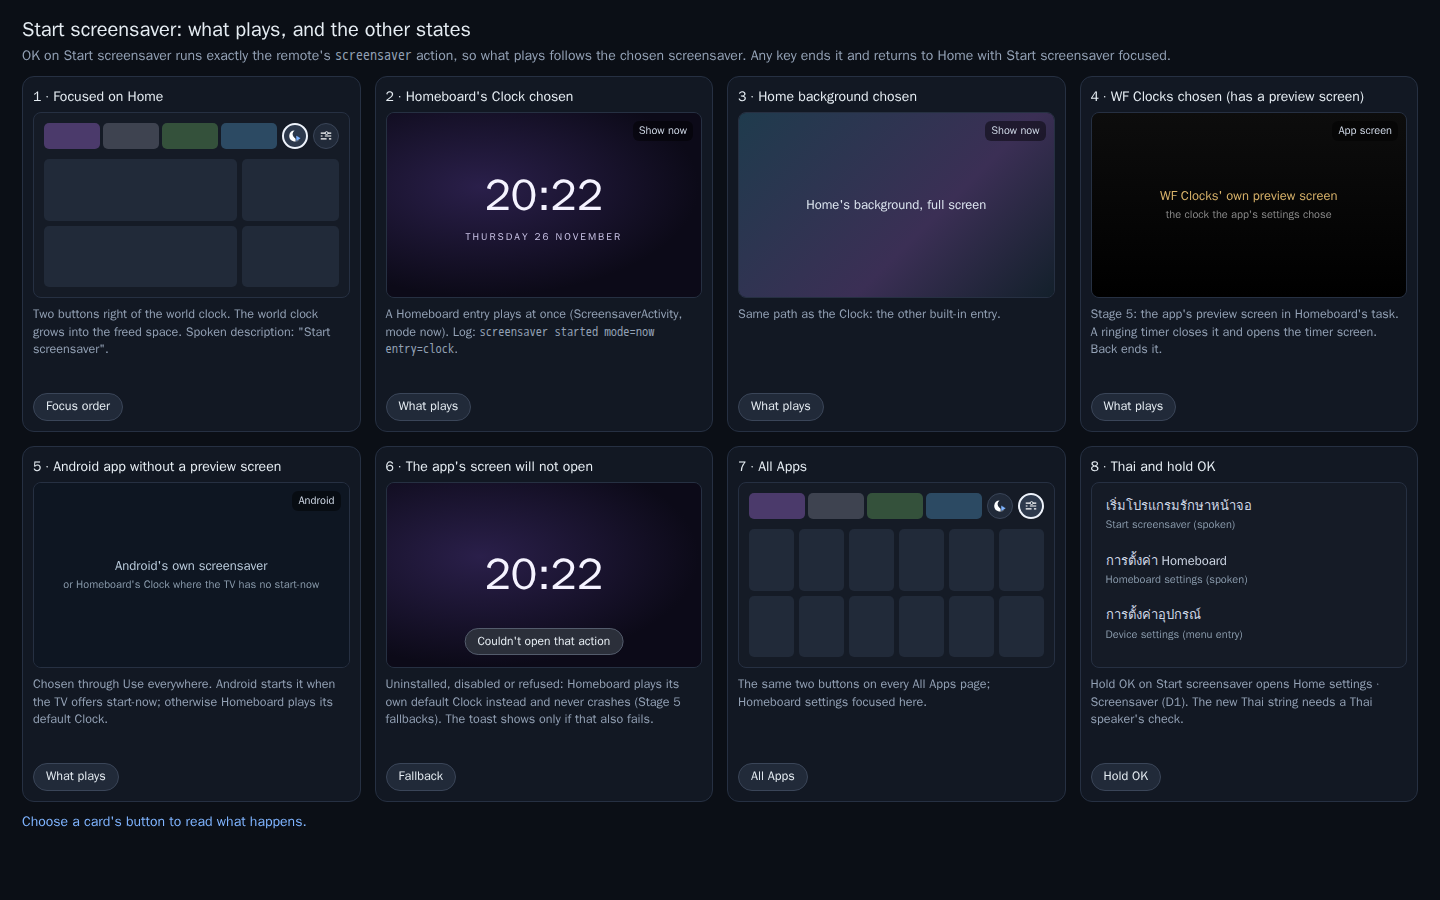
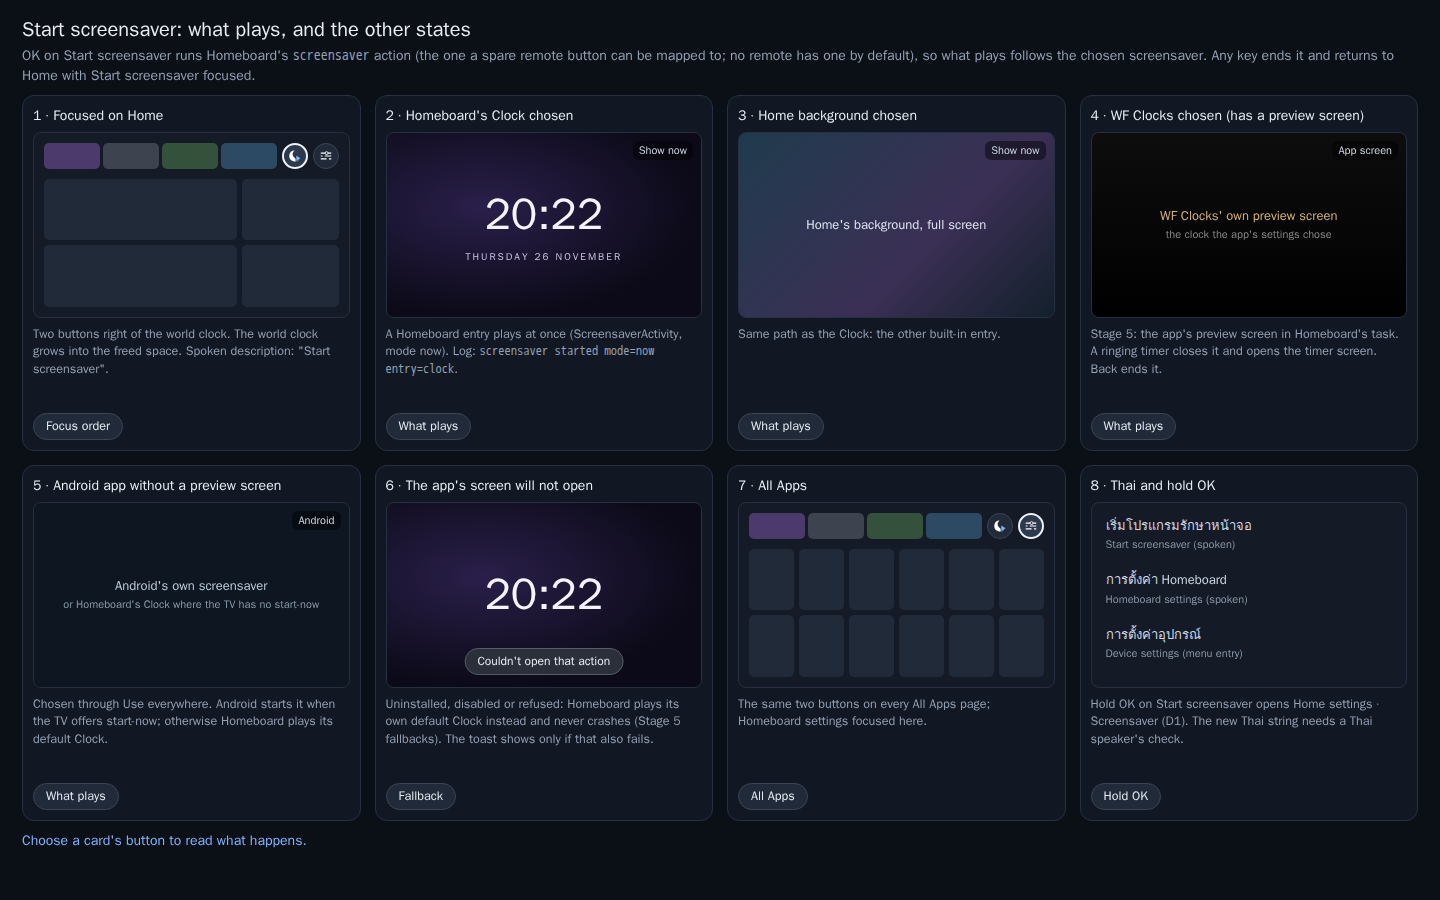
docs: no remote has a screensaver button
The screensaver action word only runs from a spare remote button that a build
or theme maps through app_keys, which ships empty. The top-row plan, its
mockup, the user guide, the contract, the investigation and the Stage 5 TODO
said "the remote" as if a button existed.

Claude-Session: https://claude.ai/code/session_01YEenqQzN1oGqYJXjCkzVJ1

diff --git a/docs/plans/2026-11-26-top-row-start-screensaver/start-states.html b/docs/plans/2026-11-26-top-row-start-screensaver/start-states.html
@@ -34,7 +34,7 @@
 <body>
 <main>
   <h1>Start screensaver: what plays, and the other states</h1>
-  <p class="sub">OK on Start screensaver runs exactly the remote's <code>screensaver</code> action, so what plays follows the chosen screensaver. Any key ends it and returns to Home with Start screensaver focused.</p>
+  <p class="sub">OK on Start screensaver runs Homeboard's <code>screensaver</code> action (the one a spare remote button can be mapped to; no remote has one by default), so what plays follows the chosen screensaver. Any key ends it and returns to Home with Start screensaver focused.</p>
   <div class="grid">
     <div class="card"><h2>1 · Focused on Home</h2>
       <div class="scr"><div class="top"><div class="chips"><span style="background:#4b3a6b"></span><span style="background:#3e4350"></span><span style="background:#34513b"></span><span style="background:#2c4a63"></span></div><div class="b f" id="i1"></div><div class="b" id="i2"></div></div><div class="blocks"><span></span><span></span><span></span><span></span></div></div>

diff --git a/TODO.md b/TODO.md
@@ -31,7 +31,7 @@ Repository consolidation is complete. Archived worktree drafts are described in 
 
 - [T4] **Native 4K dashboard**: actual 3840 × 2160 dashboard proof and native overlays implemented; Cast2 Rain/Back/Restore/All Apps/Clock and Cast1 1080p control passed. Dashboard scale with 100%/75%/50%, live Home preview, Save/Cancel and layout Undo is implemented for roughly four times the widget workspace at 50%; 0.1.162 is installed on Cast1, Cast2 and Pixel, with tablet jobs queued; 26 November native preview/Cancel/Save/Undo and Rain/Calendar/Air/Favorites Back/Restore passed at 50%. Phone browser UI, Android editor protocol and an ordinary-app provider control passed at 16×8; native provider fixture hosting also passed that evening, including move/resize, Back/Restore and same-binding Remove/Undo. External phone transport and broader provider/readability/accessibility checks remain open. [Scale follow-up](docs/testing/2026-11-26-dashboard-scale-acceptance.md). Finish performance attribution, pixel delivery, remaining widget/provider/editor/accessibility checks, then automatic selection, recovery and bounded asset-resolution changes before enabling native rendering in the normal launcher. [Plan](docs/plans/2026-11-23-native-4k-dashboard.md) · [verification](docs/testing/2026-11-25-native-4k-dashboard.md).
 
-- [verify T3] **Screensavers Stage 5: play World Foundry screensavers on Home and in Preview.** Built 2026‑11‑26 (`2395376`, `task check` passes): Homeboard reads `PREVIEW_ACTIVITY` (and the optional extra) from each Dream service, offers Preview and **Use this screensaver** on Home for such an app, and Home idle and the remote play the app's own preview screen in Homeboard's task; a ringing timer closes it with `finishActivity` and opens the timer screen. Left: contract Verification 3 on Cast1, which needs the WF Clocks APK with `5a117e85d` installed (the WorldFoundry session is building it) and a Homeboard deploy. Thai strings need a Thai speaker's read. See [contract](docs/plans/2026-11-26-screensaver-companion-contract.md) and [investigation](docs/investigations/2026-11-26-screensaver-integration.md).
+- [verify T3] **Screensavers Stage 5: play World Foundry screensavers on Home and in Preview.** Built 2026‑11‑26 (`2395376`, `task check` passes): Homeboard reads `PREVIEW_ACTIVITY` (and the optional extra) from each Dream service, offers Preview and **Use this screensaver** on Home for such an app, and Home idle and the `screensaver` action (a remote button mapped through `app_keys`; none by default) play the app's own preview screen in Homeboard's task; a ringing timer closes it with `finishActivity` and opens the timer screen. Left: contract Verification 3 on Cast1, which needs the WF Clocks APK with `5a117e85d` installed (the WorldFoundry session is building it) and a Homeboard deploy. Thai strings need a Thai speaker's read. See [contract](docs/plans/2026-11-26-screensaver-companion-contract.md) and [investigation](docs/investigations/2026-11-26-screensaver-integration.md).
 - [T3] **Home's top row: Start screensaver and Homeboard settings only.** Will, 2026‑11‑26: a button to start the screensaver "(something present in the original google launcher)", with Device settings and Screensaver settings moved inside Homeboard settings. The plan, with mockups, reuses the remote's `screensaver` action for the button, puts Device settings on page 1 of Home settings and keeps it reachable when the layout is read-only. Waiting on Will's decisions D1–D3 (hold OK on Start opens Screensaver settings; Device settings on page 1; a moon-with-play icon). Tier T3: settled multi-file change in MainActivity, RemoteKeys and strings once decided. See [plan](docs/plans/2026-11-26-top-row-start-screensaver.md).
 - [T4] **Android app widget hosting**: implement normal consent, saved instances, full-screen interaction, sizing and Undo; test the dedicated fixture, Fossify Calendar and Breezy Weather on Cast1/Cast2, Pixel and tablet. Stage-0 probe implemented and installed on both TVs; Both TVs lack normal binding consent, but the authorized developer-grant experiment proved separate-app binding/rendering on Cast1 and Cast2 with restored permissions and zero test IDs. Pixel census passed; tablet remains unverified. Product host and explicit one-time setup implemented; 0.1.95 also keeps setup/review explanations visible. Cast2 native fixture acceptance passes, including expansion/Restore/Back and phone Remove/Undo with the same binding. Both TVs have the identical 0.1.95 APK installed; Cast1 Add/expansion and Cast2 fixture/real-provider placeholder checks passed. Broader provider/mobile configuration and resource/24-hour checks remain open. [Plan](docs/plans/2026-11-19-android-app-widgets.md).
 
@@ -123,4 +123,5 @@ _Auto-added from plan "Out of scope"/"Deferred" sections at commit time. Triage 
 - [ ] **(triage)** **The indicator in the inherited settings screens** (`LauncherSettingsActivity`, `HomeSettingsActivity`) and in keyboard editor dialogs. — _from [2026-11-20-timers-on-every-page.md](docs/plans/2026-11-20-timers-on-every-page.md)_  <!-- fp:1c696fbc8394da85 -->
 - [ ] **(triage)** **A one-time notice after a TV restart** that names interrupted timers and missed alarms, if Decision 3 keeps them out of the indicator. — _from [2026-11-20-timers-on-every-page.md](docs/plans/2026-11-20-timers-on-every-page.md)_  <!-- fp:52e7560756abe9c0 -->
 - [verify] **2026-11-23-screensaver-shortcut** — Cast1 shortcut/chooser/Back passed; All Apps, preview restoration, narrow layouts and Thai acceptance remain open. _from [2026-11-23-screensaver-shortcut.md](docs/plans/2026-11-23-screensaver-shortcut.md)_  <!-- fp:6cfc3a0c13f18fb3 -->
+- [ ] **(triage)** `app_keys` remote mappings: the `screensaver` and `settings` action words stay as they are. — _from [2026-11-26-top-row-start-screensaver.md](docs/plans/2026-11-26-top-row-start-screensaver.md)_  <!-- fp:832ba47a1a397d7a -->
 <!-- END auto-captured-deferrals -->

diff --git a/docs/plans/2026-11-26-top-row-start-screensaver.md b/docs/plans/2026-11-26-top-row-start-screensaver.md
@@ -20,8 +20,11 @@ Today the top row of Home and All Apps has three round buttons right of the worl
 | Sliders (`ic_app_settings`) | Home settings, the radial menu (`homeSettings`) | the widget Home |
 | Gear (`ic_settings`) | Android's own Settings (`Settings.ACTION_SETTINGS`) | the widget Home |
 
-Nothing on screen starts the screensaver. Only a remote key mapped to the `screensaver` action
-word does (`RemoteKeys`, case `"screensaver"`), which most people never set up. Screensaver is
+Nothing starts the screensaver on demand today: no remote we test has a screensaver button, so
+it starts only when the TV has been idle. Homeboard inherited a way for a build or theme to map
+a spare remote button to the action word `screensaver` (`app_keys` in `config.xml`, read by
+`RemoteKeys`), for remotes with extra buttons; the list ships empty, so nothing uses it. That
+action's code already picks the right player (Stage 5), and the new button reuses it. Screensaver is
 already an entry in Home settings (page 1, bottom), so the moon is a second route to the same
 screen. Android's Settings is not a tile in the app grid (quick start, "The two top-right
 buttons are separate"), so the gear is its only on-screen route today.
@@ -39,7 +42,8 @@ Each is a recommendation; saying no to any of them leaves that part as described
 ## Approach
 
 1. **Start screensaver** replaces the moon, left of Homeboard settings, on Home and All Apps.
-   OK runs exactly the remote's `screensaver` action, so there is one rule for both:
+   OK runs exactly the `screensaver` action a mapped remote button would run, so there is one
+   rule for both:
     - a Homeboard entry (Clock, Home background) plays at once: `ScreensaverActivity`, mode now;
     - an app with a declared preview screen plays it in Homeboard's task (Stage 5,
       `playScreensaver`), so a ringing timer can close it;
@@ -155,12 +159,12 @@ moves one menu deeper, and the hold on Start screensaver is not discoverable; bo
 ## Out of scope
 
 - The phone controller, which has no top row.
-- Remote key mappings: the `screensaver` and `settings` action words stay as they are.
+- `app_keys` remote mappings: the `screensaver` and `settings` action words stay as they are.
 - What any screensaver shows, and Stage 5's own device check.
 
 ## Verification
 
-1. `task check` passes, with a unit test that the remote's action and the button use the same
+1. `task check` passes, with a unit test that the `screensaver` action and the button use the same
    start rule for a Homeboard entry, an app with a preview screen and an app without one, and a
    test of the Home settings entry order (Device settings on page 1 under D2).
 2. Cast1, coordinator `check`: Home's top row shows exactly two buttons right of the world

diff --git a/docs/investigations/.history/2026-11-26-screensaver-integration.md b/docs/investigations/.history/2026-11-26-screensaver-integration.md
@@ -1,5 +1,6 @@
 | Date | Change |
 |------|--------|
+| [2026-11-26](https://github.com/wbniv/homeboard-tv/commit/c684abc) | test: answer screensaver Q7's wake half on Cast1 |
 | [2026-11-26](https://github.com/wbniv/homeboard-tv/commit/d69822e) | docs: Stage 5 built and merged; awaiting the Cast1 check |
 | [2026-11-26](https://github.com/wbniv/homeboard-tv/commit/38d5be9) | docs: record Will's four screensaver integration decisions |
 | [2026-11-26](https://github.com/wbniv/homeboard-tv/commit/6847440) | test: answer screensaver Q7 on Cast1 |
@@ -7,6 +8,11 @@
 | [2026-11-26](https://github.com/wbniv/homeboard-tv/commit/011c5f1) | docs: map screensaver ownership across Homeboard, apps and Android |
 
 <!--history-meta v1
+c684abc	author	Will Norris
+c684abc	added	2
+c684abc	deleted	4
+c684abc	files	1
+c684abc	body	With the coordinator's foreground: observe (0.1.240), run 4 follows the TV\npast Android's screensaver: Homeboard's own Clock closes itself (reason=left)\nas Android's comes to the front, the wake key's press goes to Android's\nscreensaver and the TV returns to Homeboard's Home where it was left, and\nHomeboard's Home timer plays its Clock again 64 s after the next key.\nRecipe, contact sheet, job JSON and a log excerpt; the Q7 record, the Stage 0\nrecord, the user guide and the integration investigation updated.\n\nCo-Authored-By: Claude Opus 5.5 <noreply@anthropic.com>\nClaude-Session: https://claude.ai/code/session_01YEenqQzN1oGqYJXjCkzVJ1
 d69822e	author	Will Norris
 d69822e	added	6
 d69822e	deleted	2

diff --git a/docs/plans/2026-11-26-screensaver-companion-contract.md b/docs/plans/2026-11-26-screensaver-companion-contract.md
@@ -6,7 +6,7 @@ APKs installed on Cast1 carry them only after a WorldFoundry rebuild and install
 (Verification 2) is not built. **Homeboard's half is built (Stage 5, `2395376` on main) and awaits
 Verification 3 on Cast1:** it reads the keys from each Dream service, places the preview activity in the Dream's
 own package (refusing a value with a leading `.` or a `/`), and keeps it only when that activity is exported.
-Preview, Home idle and the remote's screensaver action start it, with the extra when both are declared; such an
+Preview, Home idle and the `screensaver` action (a remote button a build maps through `app_keys`; none by default) start it, with the extra when both are declared; such an
 entry can be chosen for Home without Use everywhere, which works as before. Home starts the screen in its own task,
 so a ringing timer closes it with `finishActivity` and opens the timer screen, with no new permission. An app
 without the keys, or whose screen is missing or will not start, gets Homeboard's default screensaver. Will's decisions in the
@@ -55,7 +55,7 @@ sequenceDiagram
     participant C as App chooser
     H->>PM: installed Dream services, with metadata
     PM-->>H: preview screen, extra, settings link
-    P->>H: Preview, or Home idle, or remote key
+    P->>H: Preview, or Home idle, or the screensaver action
     H->>A: start in the Dream's own package, with the extra if declared
     A-->>P: plays the app's saved tank or clock, saves nothing
     P->>H: Open Aquarium settings

diff --git a/docs/plans/.history/2026-11-26-screensaver-companion-contract.md b/docs/plans/.history/2026-11-26-screensaver-companion-contract.md
@@ -1,5 +1,6 @@
 | Date | Change |
 |------|--------|
+| [2026-11-26](https://github.com/wbniv/homeboard-tv/commit/d69822e) | docs: Stage 5 built and merged; awaiting the Cast1 check |
 | [2026-11-26](https://github.com/wbniv/homeboard-tv/commit/a847020) | docs: screensaver apps with their own preview screen; Stage 5 status in the contract |
 | [2026-11-26](https://github.com/wbniv/homeboard-tv/commit/ef2fb21) | docs: WorldFoundry declares the preview metadata; Stage 5 unblocked |
 | [2026-11-26](https://github.com/wbniv/homeboard-tv/commit/38d5be9) | docs: record Will's four screensaver integration decisions |
@@ -9,6 +10,11 @@
 | [2026-11-26](https://github.com/wbniv/homeboard-tv/commit/12e5c64) | docs: define the screensaver companion app contract; Stage 5 is blocked |
 
 <!--history-meta v1
+d69822e	author	Will Norris
+d69822e	added	1
+d69822e	deleted	1
+d69822e	files	1
+d69822e	body	The contract, the integration investigation and the original plan's Stage 5\nrow now say what is built (2395376) and what is left. TODO: Stage 5 moves to\nverify; the device check needs the WF Clocks APK and a Homeboard deploy.\n\nCo-Authored-By: Claude Opus 5.5 <noreply@anthropic.com>\nClaude-Session: https://claude.ai/code/session_01YEenqQzN1oGqYJXjCkzVJ1
 a847020	author	Will Norris
 a847020	added	7
 a847020	deleted	1

diff --git a/docs/how-to/screensaver.md b/docs/how-to/screensaver.md
@@ -154,8 +154,9 @@ what Android starts, after how long, and the kept original. It offers:
   TV's original screensaver, plays Clock on Home and says so once on Home, without Undo
   because the app is gone.
 
-A remote button mapped to the **screensaver** action (`RemoteKeys`) plays your Homeboard
-choice at once. When the chosen app has its own preview screen, Home opens that screen at
+No remote we test has a screensaver button. On a remote with spare buttons, a build or theme
+can map one to the **screensaver** action (`app_keys`, read by `RemoteKeys`; empty by default),
+and that button plays your Homeboard choice at once. When the chosen app has its own preview screen, Home opens that screen at
 once, as Home idle does, and you return to Home when it ends. For any other Android
 screensaver app, it asks Android to start it.
 

diff --git a/docs/plans/.history/2026-11-26-top-row-start-screensaver.md b/docs/plans/.history/2026-11-26-top-row-start-screensaver.md
@@ -1,0 +1,11 @@
+| Date | Change |
+|------|--------|
+| [2026-11-26](https://github.com/wbniv/homeboard-tv/commit/d778920) | plan: Home's top row with Start screensaver and Homeboard settings only |
+
+<!--history-meta v1
+d778920	author	Will Norris
+d778920	added	179
+d778920	deleted	0
+d778920	files	1
+d778920	body	Will asked for a button that starts the screensaver, with Device settings and\nScreensaver settings moved inside Homeboard settings. The plan reuses the\nremote's screensaver action, puts Device settings on page 1 of Home settings,\nkeeps it reachable for a read-only layout, and asks three decisions (D1-D3).\nThree mockups and today's top row from Cast1.\n\nCo-Authored-By: Claude Opus 5.5 <noreply@anthropic.com>\nClaude-Session: https://claude.ai/code/session_01YEenqQzN1oGqYJXjCkzVJ1
+-->

diff --git a/docs/investigations/2026-11-26-screensaver-integration.md b/docs/investigations/2026-11-26-screensaver-integration.md
@@ -3,7 +3,7 @@
 **Status (2026‑11‑26):** four decisions made by Will (below). It reframes Stage 5 of the
 [screensaver plan](../plans/2026-11-20-screensavers.md). Built the same day, not yet checked on
 a device: the apps' preview metadata (WorldFoundry `5a117e85d`) and Homeboard playing it on
-Home, in Preview and from the remote (`2395376`); see the
+Home, in Preview and from a mapped remote button (`2395376`); see the
 [companion contract](../plans/2026-11-26-screensaver-companion-contract.md). Decision 1's
 chooser is not built.
 
